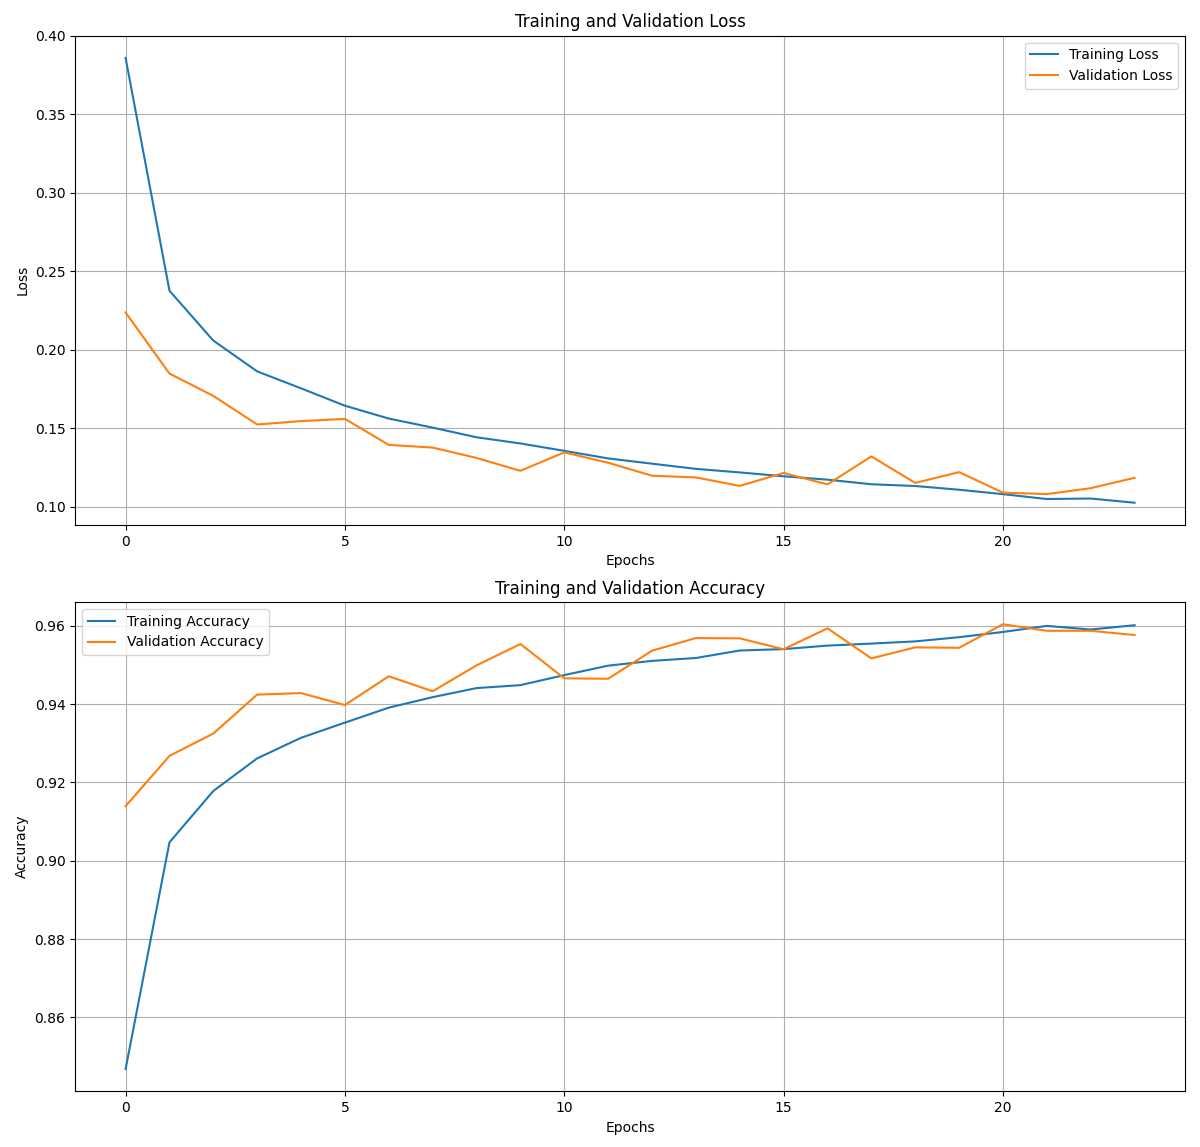
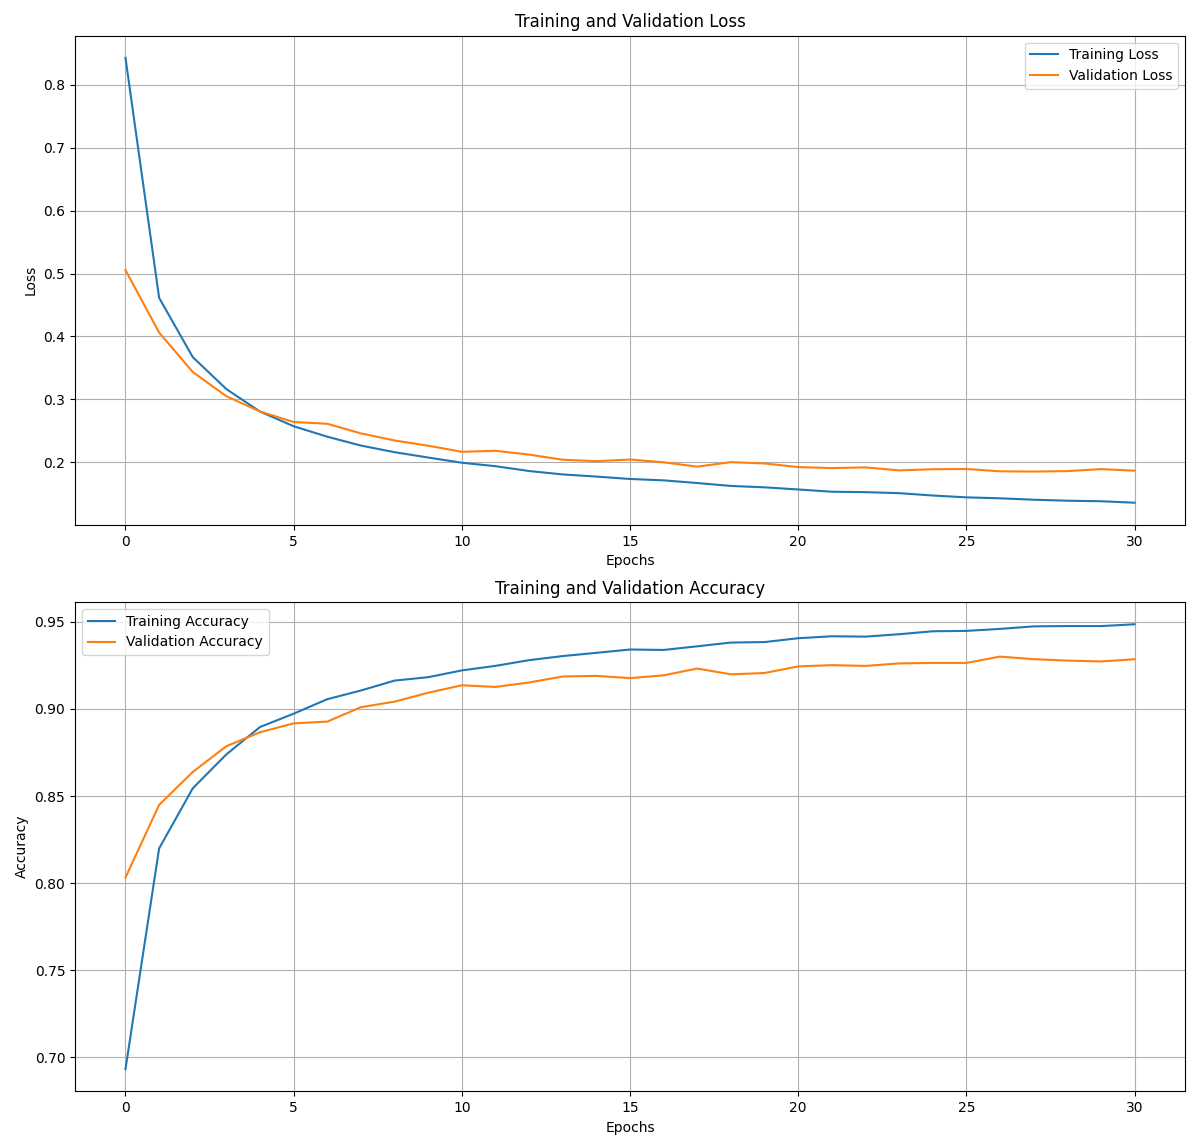
Fix problems

diff --git a/Training_Data/2_trandsformers.py b/Training_Data/2_trandsformers.py
@@ -12,7 +12,7 @@ from tensorflow.keras import layers, Input, Model
 
 # === Config ===
 split_by_circuit = True
-window_size = 5
+window_size = 3
 df = load_telemetry_data("../data/dataset/vehicle_telemetry_*.csv")
 if df.empty:
     print("Nessun file trovato. Controlla il pattern o la cartella.")
@@ -108,7 +108,7 @@ history = model.fit(
     X_train, y_train,
     validation_data=(X_val, y_val),
     epochs=50,
-    batch_size=64,
+    batch_size=1024,
     class_weight=class_weights_dict,
     callbacks=callbacks,
     verbose=1

diff --git a/Training_Data/3_resnet_1D.py b/Training_Data/3_resnet_1D.py
@@ -17,8 +17,8 @@ from custom_early_stop import CustomEarlyStoppingTorch
 from r1 import ResNet1DTabular
 
 # === Config ===
-split_by_circuit = False
-batch_size = 64
+split_by_circuit = True
+batch_size = 1024
 num_epochs = 100
 patience = 7
 

diff --git a/Training_Data/1_lstm.py b/Training_Data/1_lstm.py
@@ -113,7 +113,7 @@ history = model.fit(
     X_train, y_train,
     validation_data=(X_val, y_val),
     epochs=50,
-    batch_size=64,
+    batch_size=1024,
     callbacks=[custom_early_stopping],
     # class_weight=class_weights_dict,
     verbose=1

diff --git a/Training_Data/5_random.py b/Training_Data/5_random.py
@@ -137,7 +137,7 @@ history = model.fit(
     X_train, y_train,
     validation_data=(X_val, y_val),
     epochs=100,
-    batch_size=64,
+    batch_size=1024,
     callbacks=[custom_early_stopping],
     class_weight=class_weights_dict,
     verbose=0

diff --git a/Training_Data/5_random_circuit.py b/Training_Data/5_random_circuit.py
@@ -138,7 +138,7 @@ history = model.fit(
     X_train, y_train,
     validation_data=(X_val, y_val),
     epochs=50,
-    batch_size=64,
+    batch_size=1024,
     callbacks=[custom_early_stopping],
     class_weight=class_weights_dict,
     verbose=0